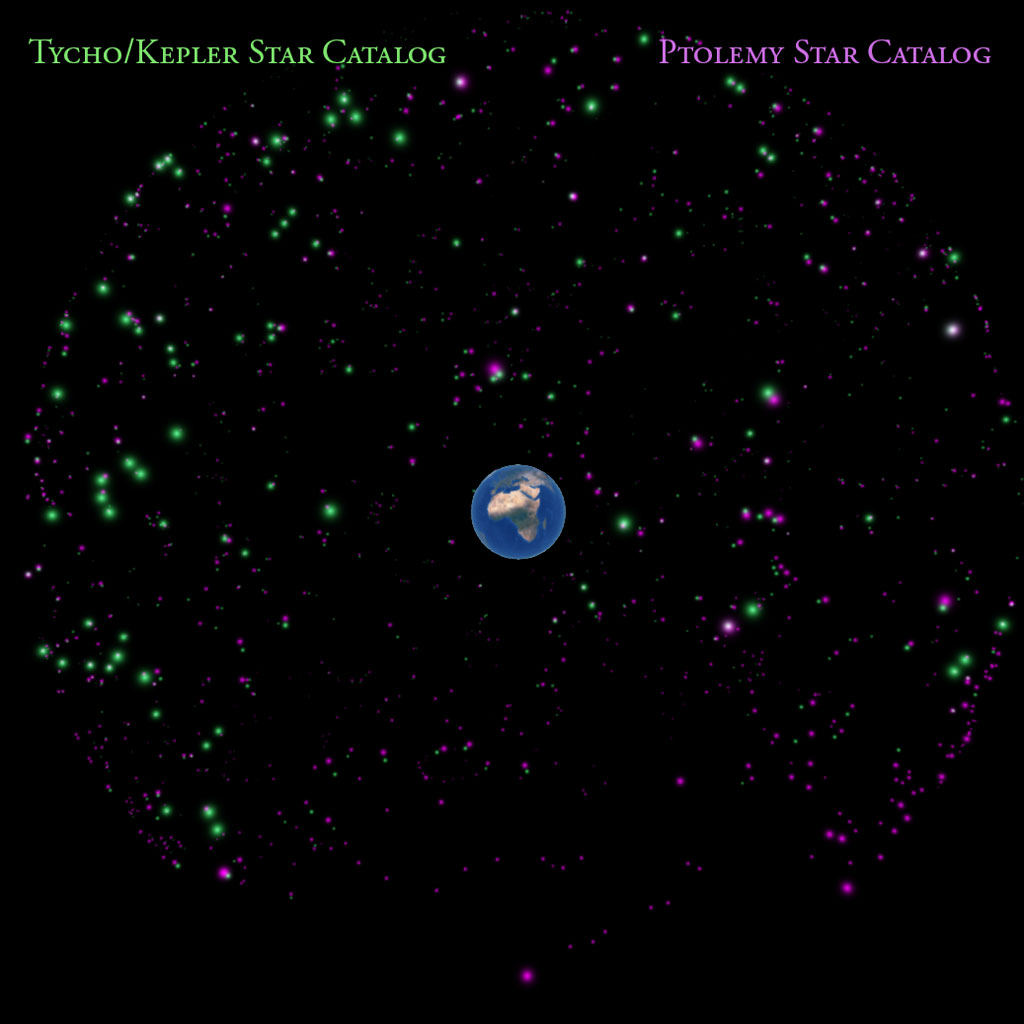
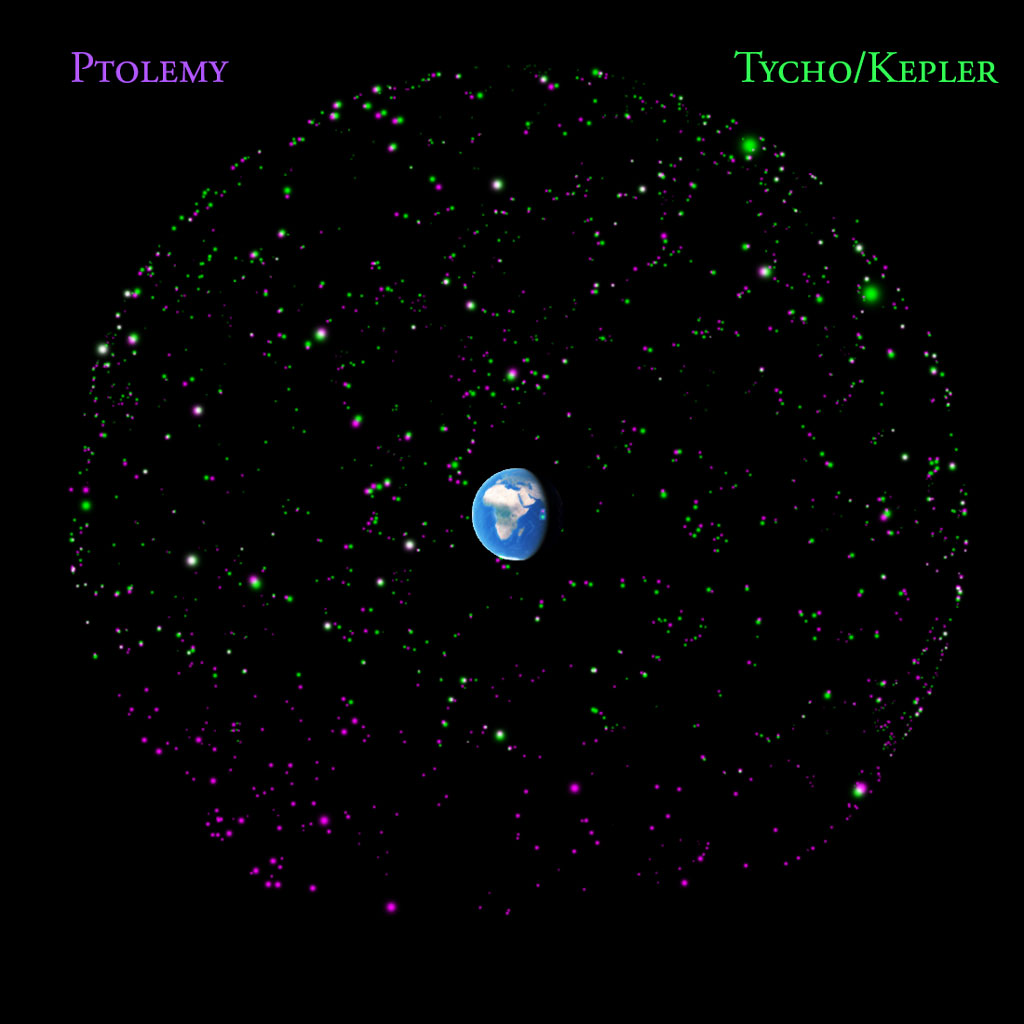
update star catalogs

diff --git a/_posts/2020-11-02-ancient-star-maps.md b/_posts/2020-11-02-ancient-star-maps.md
@@ -62,17 +62,17 @@ file="tycho_kepler_fixed_stars.jpg" alt="The Tycho/Kepler Data Set"
 caption="The Catalog of Fixed Stars showing, again, the listing for Ursa Major"
 %}
 
-Using a similar method as above, with some minor modifications due to the way the data is structured, we can transform these manuscripts to a data format we can work with. Others have already done most of the heavy lifting, we just have to run some coordinate transforms and data format fixes and voila:
+Using a similar method as above, with some minor modifications due to the way the data is structured, we can transform these manuscripts to a data format we can work with. Others have already done most of the heavy lifting, we just have to run some coordinate transforms and data format fixes. Here are the stars from the Almagest (in <span style="color: purple">PURPLE</span>) and the stars from Kepler's Tables, based on Tycho's measurements (in <span style="color: LimeGreen">GREEN</span>) shown on a sphere around the earth. Again, these astronomers didn't have any reasonable means to assess the distance to these stars since telescopes were still a few years away, and their cosmologies didn't requires it either. All the stars were fixed in the crystalline celestial spheres. 
 
 
 {%
 include figure.html
-max-width="600px"
-file="both_almagest_tycho_star.jpg" alt="The Ptolemy and Tycho Data Sets"
-caption="Ptolemy and Tycho Star Catalogs"
+max-width="800px"
+file="both_almagest_tycho_star.jpg" alt="The Ptolemy and Tycho Data Sets "
+caption="Ptolemy and Tycho Star Catalogs (Orion is just to the left of Earth)"
 %}
 
-And now, thanks to the powers of OpenGL we can see these catalogs from the vantage point of the earth. Here's a quick animation showing the evolution of the data sets from the vantage point of the surface of the earth.
+And now, thanks to the powers of OpenGL we can see these catalogs from the vantage point of the earth, just as these ancient astronomers might have thousands of years ago. Here's a quick animation showing the evolution of the data sets from the vantage point of the surface of the earth.
 
 <div class='embed-container'>
 <iframe width="560" height="315" src="https://www.youtube.com/embed/Wf9GbnnxenQ" frameborder="0" allow="accelerometer; autoplay; clipboard-write; encrypted-media; gyroscope; picture-in-picture" allowfullscreen></iframe></div>
